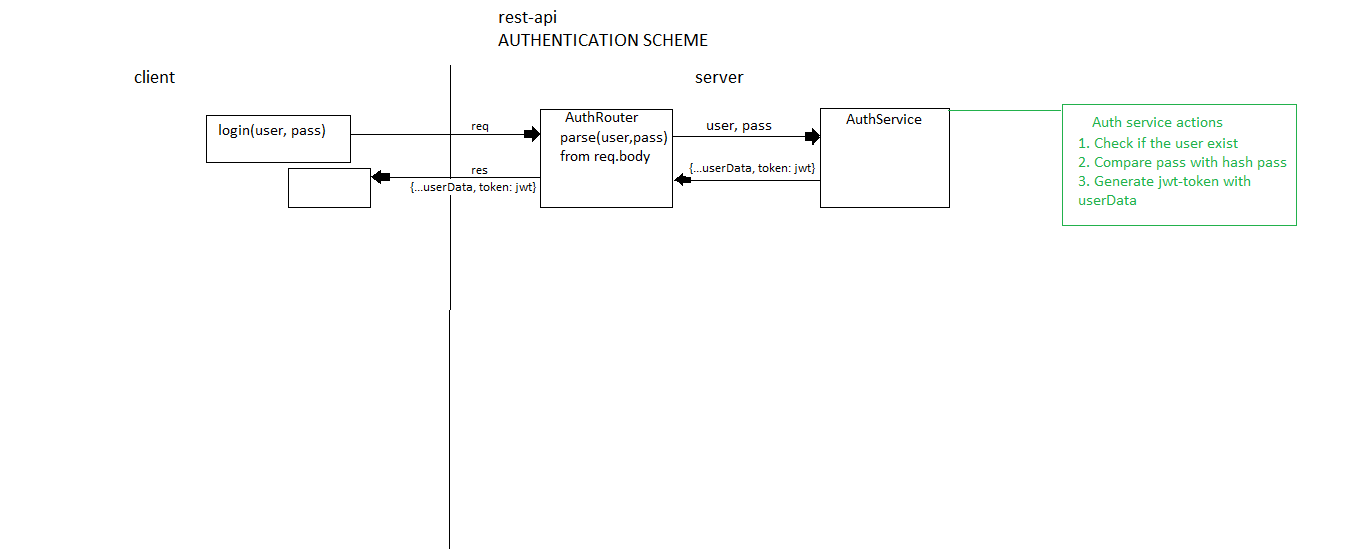
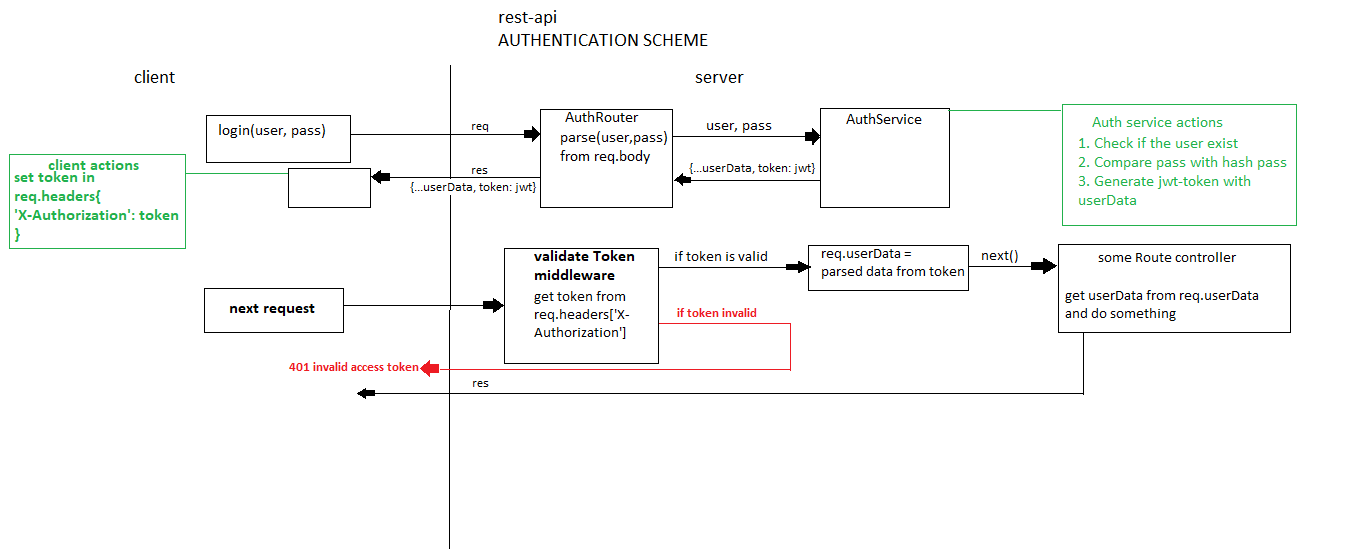
added middleware for verifying access token

diff --git a/services/authService.js b/services/authService.js
@@ -48,15 +48,6 @@ async function login(username, password) {
     }
 }
 
-function createToken(user) {
-    const payload = {
-        username: user.username,
-        _id: user._id
-    }
-
-    return jwt.sign(payload, process.env.JWT_SECRET, { expiresIn: '12h' });
-}
-
 async function logout(token) {
     const isTokenExistInBase = await checkForInvalidToken(token);
 
@@ -67,6 +58,15 @@ async function logout(token) {
             createdAt: new Date()
         });
     }
+}
+
+function createToken(user) {
+    const payload = {
+        username: user.username,
+        _id: user._id
+    }
+
+    return jwt.sign(payload, process.env.JWT_SECRET, { expiresIn: '12h' });
 }
 
 async function checkForInvalidToken(token) {
@@ -81,9 +81,20 @@ async function checkForInvalidToken(token) {
     return false;
 }
 
+function verifyToken(token) {
+    try {
+        const verifiedToken = jwt.verify(token, process.env.JWT_SECRET);
+        return verifiedToken; // {username: '...', _id: '...'}
+    } catch (err) {
+        throw err;
+    }
+}
+
 
 module.exports = {
     register,
     login,
-    logout
+    logout,
+    checkForInvalidToken, 
+    verifyToken
 }

diff --git a/middlewares/validateToken.js b/middlewares/validateToken.js
@@ -1,0 +1,24 @@
+//service functions
+const { checkForInvalidToken, verifyToken } = require('../services/authService');
+
+async function validateToken(req, res, next) {
+    const token = req.headers['x-authorization'];
+
+    if(token) {
+        const isInvalid = await checkForInvalidToken(token);
+        if(isInvalid) {
+            return res.status(401).json({ message: 'Invalid access token!'});
+        }
+
+        try {
+            const verifiedToken = verifyToken(token);
+            req.userData = verifiedToken;
+        } catch (err) {
+            return res.status(401).json({ message: 'Invalid access token!' });
+        }
+    }
+
+    next();
+}
+
+module.exports = validateToken;

diff --git a/routes/auth.js b/routes/auth.js
@@ -1,4 +1,4 @@
-// service functionals
+// service functions
 const { register, login, logout } = require('../services/authService');
 
 // utils
@@ -39,7 +39,7 @@ authRouter.get('/logout', async (req, res) => {
 
     if(token) {
         await logout(token);
-        return res.status(204).end();
+        return res.status(204).end(); // No Content
     }
 
     res.status(400).json({ message: 'You must be authenticated to send a logout request!'});

diff --git a/config/expressConfig.js b/config/expressConfig.js
@@ -1,9 +1,13 @@
 const express = require('express');
+
+//middlewares
 const cors = require('../middlewares/cors');
+const validateToken = require('../middlewares/validateToken');
 
 function expressConfig(app) {
     app.use(express.json());
     app.use(cors);
+    app.use(validateToken);
 }
 
 module.exports = expressConfig;

diff --git a/routes/users.js b/routes/users.js
@@ -1,6 +1,9 @@
 const userRouter = require('express').Router();
 
 userRouter.get('/', (req, res) => {
+    
+    console.log(req.userData);
+
     res.json({message: 'This is user route'});
 });
 
